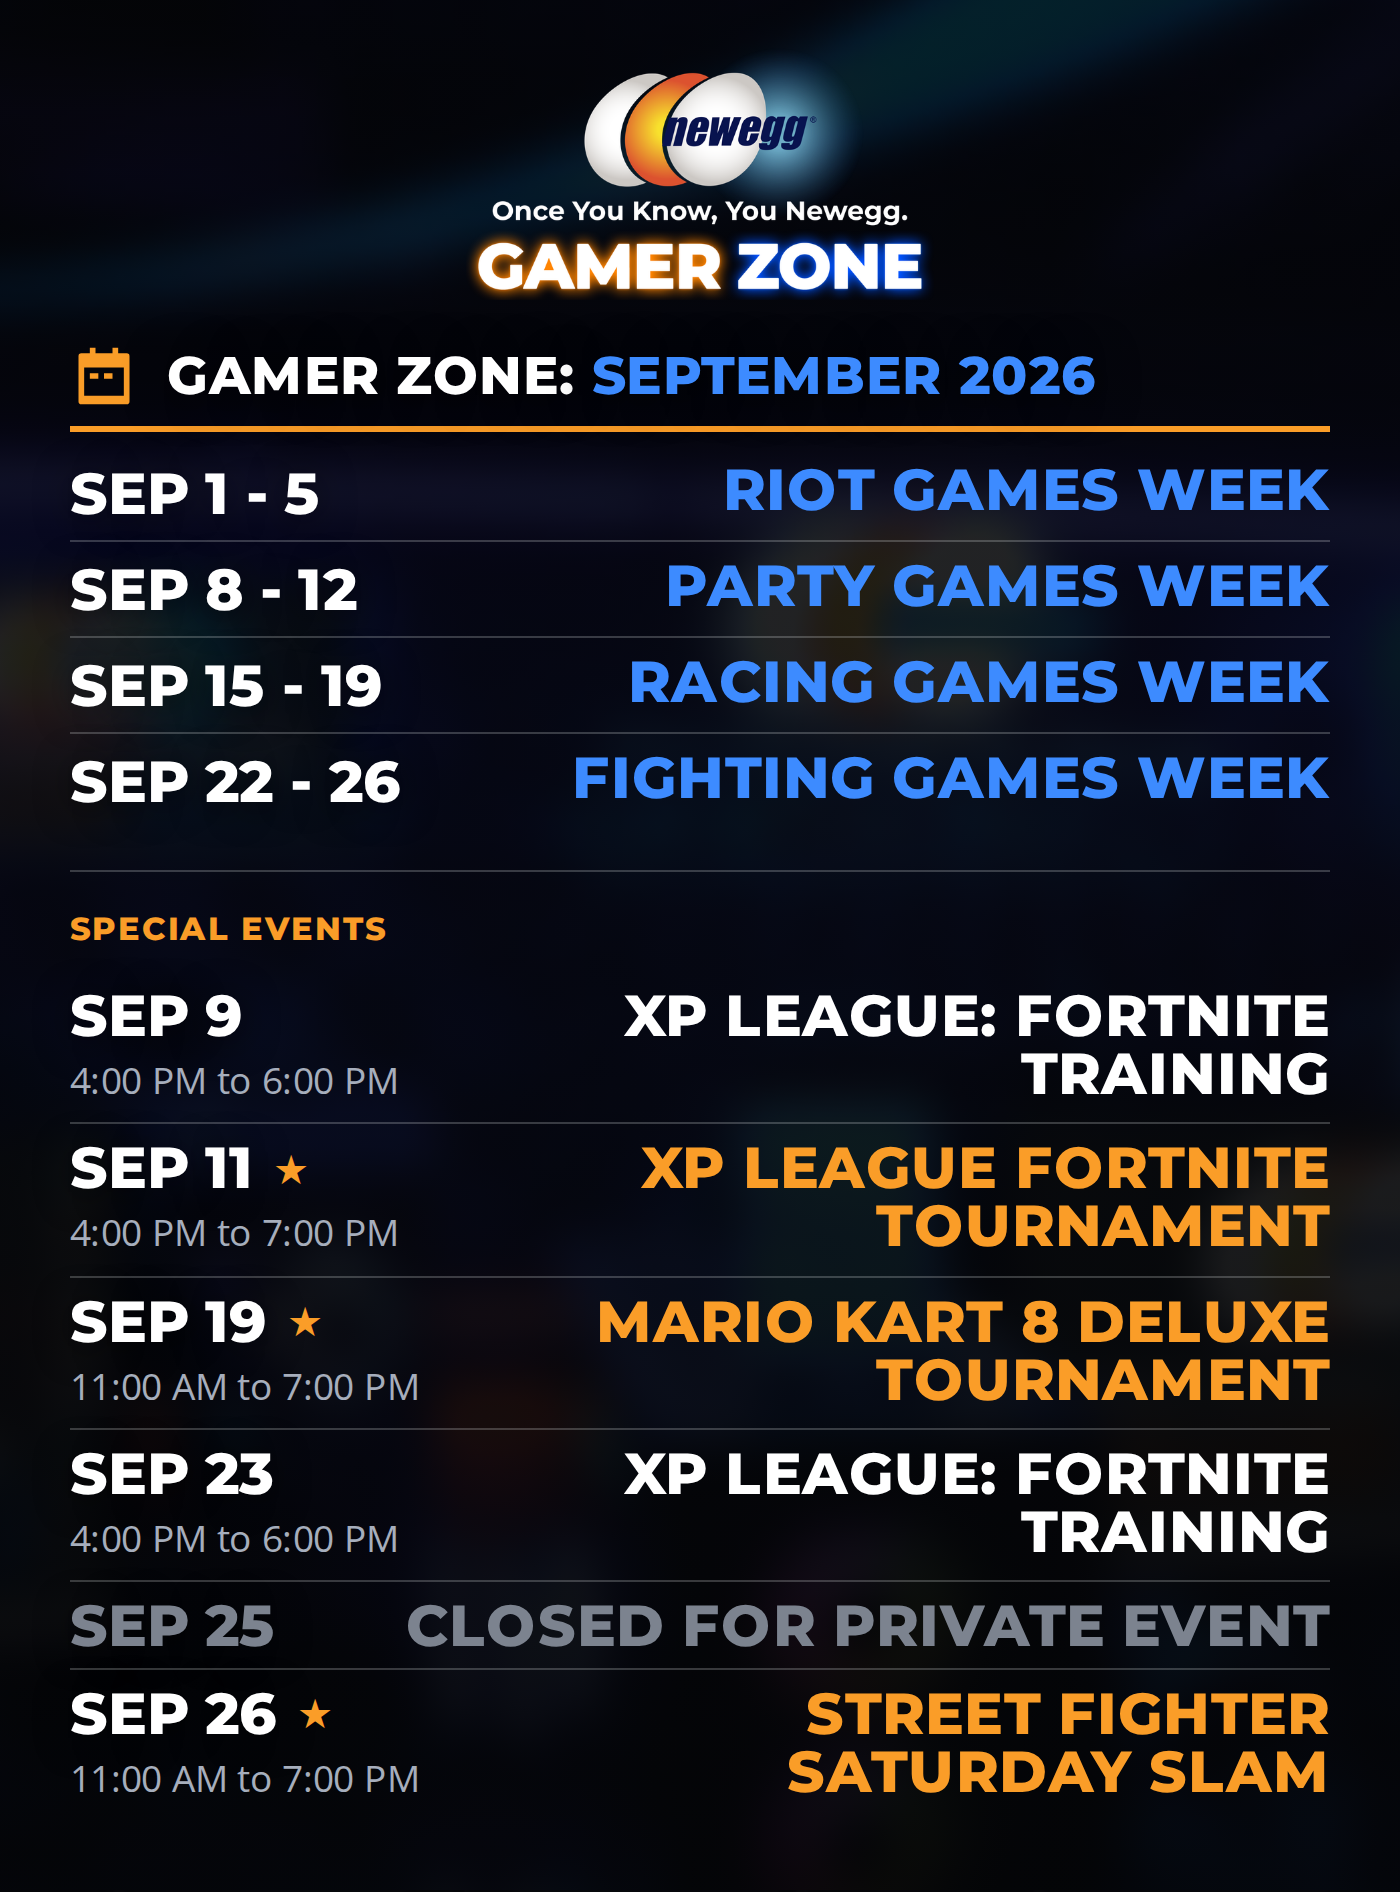
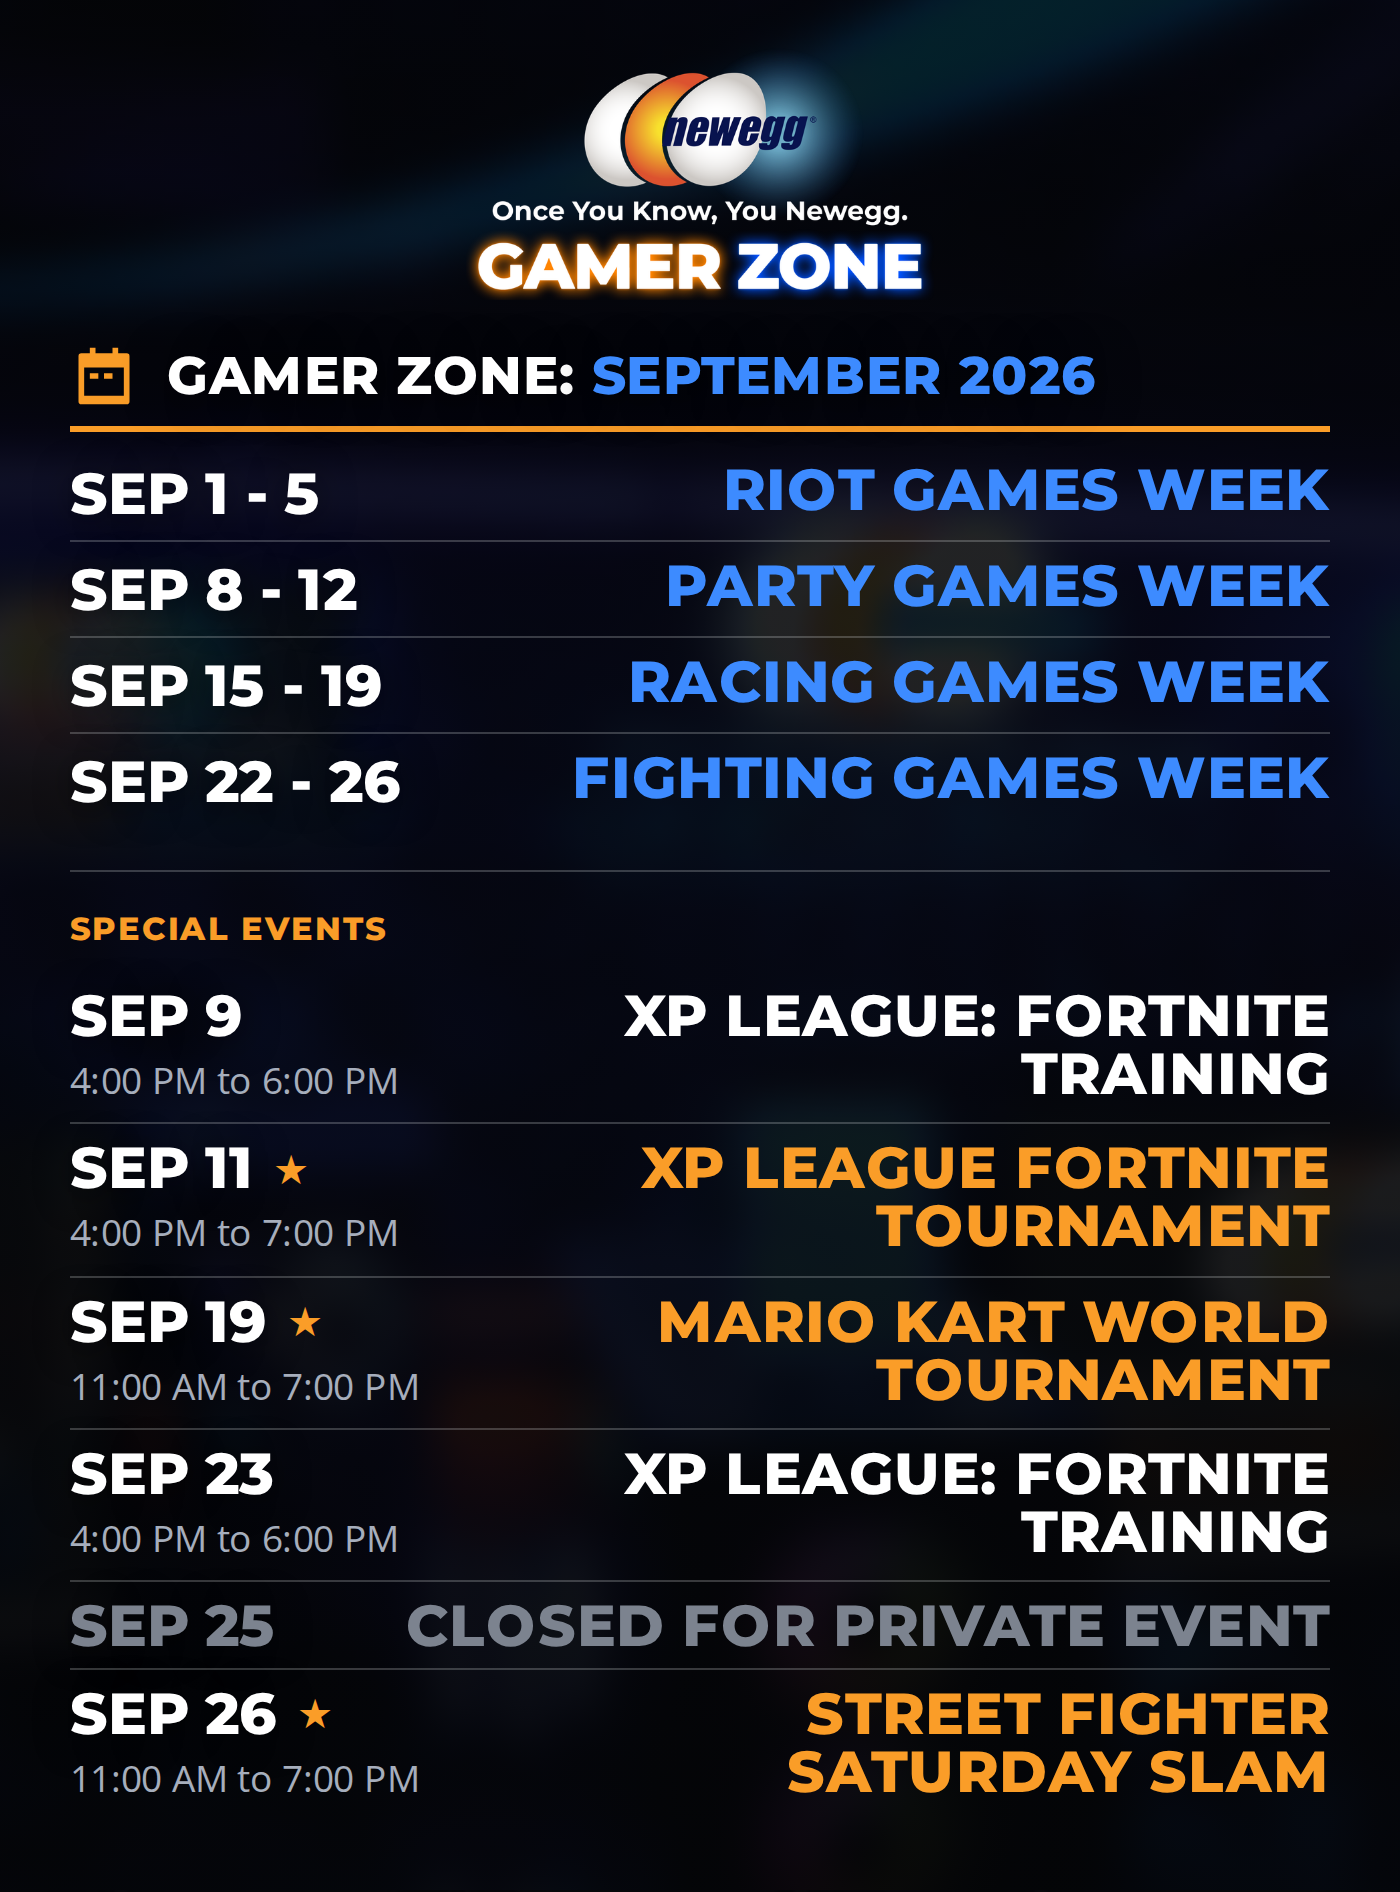
Rename Sep 19 event to Mario Kart World Tournament (events.json, events.html, index.html, monthly calendar screenshot page); regenerate 2026-09.png

Changed region(s): [[0.43, 0.686, 0.9521, 0.7172]]

diff --git a/events.html b/events.html
@@ -148,7 +148,7 @@
     { "id": "closed-private-event-2026-08-29", "title": "Closed: Private Event", "date": "2026-08-29", "time": "", "type": "closed", "featured": false },
     { "id": "xp-fortnite-training-2026-09-09", "title": "XP League: Fortnite Training", "boardNoShrink": true, "date": "2026-09-09", "time": "4:00 PM to 6:00 PM", "type": "edu", "featured": false },
     { "id": "xp-fortnite-tournament-2026-09-11", "title": "XP League Fortnite Tournament", "date": "2026-09-11", "time": "4:00 PM to 7:00 PM", "type": "tournament", "featured": true },
-    { "id": "mario-kart-8-deluxe-tournament-2026-09-19", "title": "Mario Kart 8 Deluxe Tournament", "date": "2026-09-19", "time": "11:00 AM to 7:00 PM", "type": "tournament", "featured": true },
+    { "id": "mario-kart-8-deluxe-tournament-2026-09-19", "title": "Mario Kart World Tournament", "date": "2026-09-19", "time": "11:00 AM to 7:00 PM", "type": "tournament", "featured": true },
     { "id": "xp-fortnite-training-2026-09-23", "title": "XP League: Fortnite Training", "boardNoShrink": true, "date": "2026-09-23", "time": "4:00 PM to 6:00 PM", "type": "edu", "featured": false },
     { "id": "xp-fortnite-tournament-2026-09-25", "title": "XP League Fortnite Tournament", "date": "2026-09-25", "time": "4:00 PM to 7:00 PM", "type": "tournament", "featured": true },
     { "id": "street-fighter-saturday-slam-2026-09-26", "title": "Street Fighter Saturday Slam", "date": "2026-09-26", "time": "11:00 AM to 7:00 PM", "type": "tournament", "featured": true }

diff --git a/index.html b/index.html
@@ -224,7 +224,7 @@
     { "id": "closed-private-event-2026-08-29", "title": "Closed: Private Event", "date": "2026-08-29", "time": "", "type": "closed", "featured": false },
     { "id": "xp-fortnite-training-2026-09-09", "title": "XP League: Fortnite Training", "boardNoShrink": true, "date": "2026-09-09", "time": "4:00 PM to 6:00 PM", "type": "edu", "featured": false },
     { "id": "xp-fortnite-tournament-2026-09-11", "title": "XP League Fortnite Tournament", "date": "2026-09-11", "time": "4:00 PM to 7:00 PM", "type": "tournament", "featured": true },
-    { "id": "mario-kart-8-deluxe-tournament-2026-09-19", "title": "Mario Kart 8 Deluxe Tournament", "date": "2026-09-19", "time": "11:00 AM to 7:00 PM", "type": "tournament", "featured": true },
+    { "id": "mario-kart-8-deluxe-tournament-2026-09-19", "title": "Mario Kart World Tournament", "date": "2026-09-19", "time": "11:00 AM to 7:00 PM", "type": "tournament", "featured": true },
     { "id": "xp-fortnite-training-2026-09-23", "title": "XP League: Fortnite Training", "boardNoShrink": true, "date": "2026-09-23", "time": "4:00 PM to 6:00 PM", "type": "edu", "featured": false },
     { "id": "xp-fortnite-tournament-2026-09-25", "title": "XP League Fortnite Tournament", "date": "2026-09-25", "time": "4:00 PM to 7:00 PM", "type": "tournament", "featured": true },
     { "id": "street-fighter-saturday-slam-2026-09-26", "title": "Street Fighter Saturday Slam", "date": "2026-09-26", "time": "11:00 AM to 7:00 PM", "type": "tournament", "featured": true }

diff --git a/screenshot-monthly-calendar.html b/screenshot-monthly-calendar.html
@@ -124,7 +124,7 @@
             <div class="eu-meta">11:00 AM to 7:00 PM</div>
           </div>
           <div class="eu-info">
-            <div class="eu-name">Mario Kart 8 Deluxe Tournament</div>
+            <div class="eu-name">Mario Kart World Tournament</div>
           </div>
         </div>
         <div class="eu-row">
